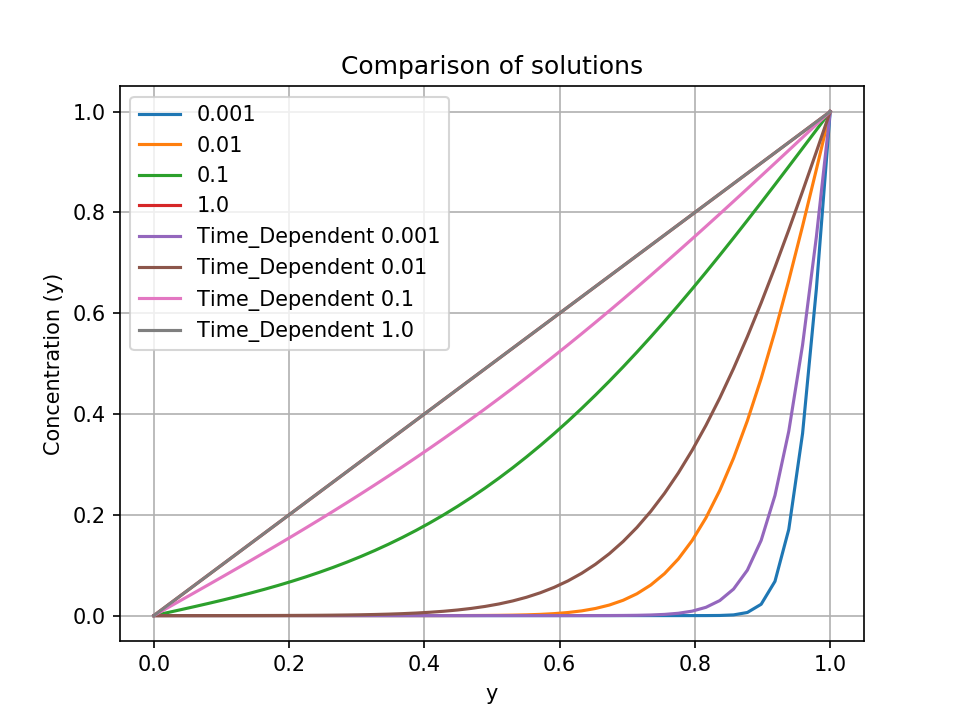
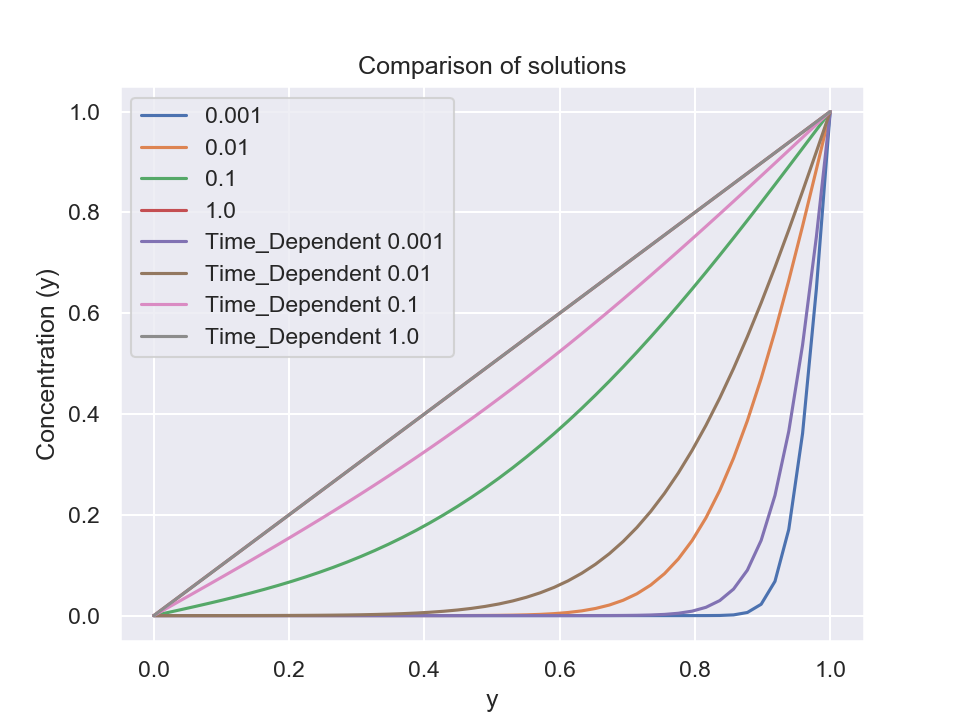
plotjes enzo

diff --git a/set1/DiffusionGrid.py b/set1/DiffusionGrid.py
@@ -15,23 +15,20 @@ class DiffusionGrid():
     """ This is a class that contains the diffusion coefficient and dimensions for
         the diffusion grid. It also contains the diffusion grid itself."""
 
-    def __init__(self, height, width, D, dt, timesteps, method):
+    def __init__(self, height, width, D, method):
         self.height = height
         self.width = width
         self.D = D
-        self.dt = dt
+
         self.dx = 1/self.width
-
-        # save grid at right times for plots later
-        self.timesteps = timesteps
         self.time = 0
-
-        # the other methods are time independent so we don't want to save these timesteps
-        if method is "Time_Dependent":
-            self.save_times = [0, 10, 100, 1000, 10000]
 
         self.saved_states = {}
         self.method = method
+
+        # this is needed for the time independent methods
+        self.converged = False
+        self.convergence = []
 
         self.initialize()
 
@@ -45,15 +42,23 @@ class DiffusionGrid():
 
         self.object_grid = [[0 for col in range(self.width)] for row in range(self.height)]
 
-    def set_omega(w):
+    def set_omega(self, w):
         """ Set the weight of omega for the SOR diffusion method. """
         self.w = w
+
+    def set_time(self, dt, timesteps):
+        """ Set the time settings for Time Dependent Diffusion. """
+
+        self.dt = dt
+        self.timesteps = timesteps
+
+        # save grid at right times for plots later
+        # the other methods are time independent so we don't want to save these timesteps
+        self.save_times = [0, 10, 100, 1000, 10000]
 
     def next_step(self):
         """ Compute concentration in each grid point according to the right
             method. """
-
-        converged = False
 
         # call next step for right method
         if self.method is "Time_Dependent":
@@ -64,16 +69,16 @@ class DiffusionGrid():
 
             self.next_step_time_dependent()
         elif self.method is "Jacobi":
-            converged = self.next_step_jacobi()
+            self.next_step_jacobi()
         elif self.method is "Gauss_Seidel":
-            converged = self.next_step_gauss_seidel()
+            self.next_step_gauss_seidel()
         else:
-            converged = self.next_step_sor()
+            self.next_step_sor()
 
         self.time += 1
 
         if not self.method == "Time_Dependent":
-            if converged:
+            if self.converged:
                 # use time as amount of steps
                 self.saved_states[self.time/10000] = copy.deepcopy(self)
 
@@ -83,12 +88,7 @@ class DiffusionGrid():
 
                 # reverse list for proper plotting
                 y.reverse()
-
-                return y
-
-            # self.time is amount of steps that have been made until converged
-            return converged
-
+                self.dependence_on_y = y
 
 
     def next_step_time_dependent(self):
@@ -162,11 +162,10 @@ class DiffusionGrid():
 
         self.grid = copy.deepcopy(next_state)
 
-        print(max_delta)
+        self.convergence.append(max_delta)
+        # if biggest difference is smaller then epsiolon (given in assignment, it's converged)
         if max_delta < 10**-5:
-            return True
-        else:
-            return False
+            self.converged = True
 
 
 
@@ -207,11 +206,9 @@ class DiffusionGrid():
 
                 if delta > max_delta:
                     max_delta = delta
-
+        self.convergence.append(max_delta)
         if max_delta < 10**-5:
-            return True
-        else:
-            return False
+            self.converged = True
 
     def next_step_sor(self):
         """ Compute concentration in each grid point with the succesive over
@@ -257,26 +254,27 @@ class DiffusionGrid():
                     max_delta = delta
 
         self.grid = copy.deepcopy(next_state)
+        self.convergence.append(max_delta)
 
-        print(max_delta)
         if max_delta < 10**-5:
-            return True
-        else:
-            return False
+            self.converged = True
 
     def plot_time_frames(self):
         """ Plot the state of the diffusion at different time steps. """
 
         fig = plt.figure()
-        fig.suptitle("Diffusion for:" + self.method + "method")
+        fig.suptitle("Diffusion for: " + self.method + " method")
 
         for i,key in enumerate(self.saved_states.keys()):
-            plt.subplot(2,3,i + 1)
+            plt.subplot(1,6,i + 1)
             plt.title("t = " + str(key))
-            plt.imshow(self.saved_states[key].grid, norm=colors.Normalize(vmin=0,vmax=1))
+            im = plt.imshow(self.saved_states[key].grid, norm=colors.Normalize(vmin=0,vmax=1), interpolation='bicubic')
             plt.xticks([])
             plt.yticks([])
-        plt.colorbar()
+
+        # TODO fix colorbar
+        # plt.subplot(1,6, 6)
+        # plt.colorbar()
         plt.show()
         fig.savefig('results/timepoints'+ self.method + "_" + str(time.time()) + '.png', dpi=150)
 
@@ -323,6 +321,8 @@ class DiffusionGrid():
 
                 # reverse list for proper plotting
                 y.reverse()
+                self.dependence_on_y = y
+
                 plt.plot(x,y, label=self.method + " " + str(key))
 
         plt.legend()

diff --git a/set1/diffusion_show_convergence.py b/set1/diffusion_show_convergence.py
@@ -1,0 +1,120 @@
+import math
+from DiffusionGrid import DiffusionGrid
+import time
+import numpy as np
+import matplotlib.pyplot as plt
+import copy
+import seaborn as sns
+sns.set()
+
+def main():
+    ####### Variables
+    # diffusion coefficient
+    D = 1
+
+    # divide grid in 50 discrete steps
+    height = 50
+    width = 50
+
+    # actual lengths are 1
+    len_x = 1
+    len_y = 1
+
+    methods = ["Jacobi", "Gauss_Seidel", "SOR"]
+    omegas = [1.7, 1.8, 1.9, 1.914]
+
+    linear_dependence = {}
+    convergence_per_iteration = {}
+
+    for method in methods:
+
+        current_state = DiffusionGrid(height, width, D, method)
+
+        if method == "SOR":
+            for omega in omegas:
+                current_state = DiffusionGrid(height, width, D, method)
+                # for the values of omega
+                current_state.set_omega(omega)
+                # for the time independent solutions, calculate next states until converged
+                while not current_state.converged:
+                    current_state.next_step()
+
+                    print(method + str(omega) + str(current_state.time))
+
+                linear_dependence[method + str(omega)] = current_state.dependence_on_y
+                convergence_per_iteration[method + str(omega)] = current_state.convergence
+
+        else:
+            # for the time independent solutions, calculate next states until converged
+            while not current_state.converged:
+                current_state.next_step()
+
+                print(method + str(current_state.time))
+
+            linear_dependence[method] = current_state.dependence_on_y
+            convergence_per_iteration[method] = current_state.convergence
+
+    linear_dependence["Analytic"] = analytic_solution(D, width)
+    print(linear_dependence)
+
+    x = np.linspace(0.,1.,width)
+
+    ###### Plot linear dependence on y
+    fig = plt.figure()
+    plt.title("Linear dependence on y")
+    plt.ylabel("Concentration")
+    plt.xlabel("Y coordinate diffusion grid")
+    for key in linear_dependence.keys():
+        plt.plot(x, linear_dependence[key], label=key)
+
+    plt.legend()
+    plt.show()
+    fig.savefig('results/linear_dependence'+ str(time.time()) + '.png', dpi=150)
+
+
+    ######3 PLOT
+    fig = plt.figure()
+    plt.title("Linear dependence on y\n Diffence between Analytic and Time-Independent methods")
+    plt.ylabel("Difference in concentration")
+    plt.xlabel("Y coordinate diffusion grid")
+
+    for key in linear_dependence.keys():
+        list = [linear_dependence[key][i] - linear_dependence["Analytic"][i] for i in range(len(linear_dependence["Analytic"]))]
+        plt.plot(x, list, label=key)
+
+    plt.legend()
+    plt.show()
+    fig.savefig('results/difference_linear_dependence' + str(time.time()) + '.png', dpi=150)
+
+
+    ####### Plot convergence per iteration
+    fig = plt.figure()
+    plt.title("Convergence per iteration")
+    plt.ylabel("Convergence (max_delta)")
+    plt.xlabel("Iteration")
+
+    for key in convergence_per_iteration.keys():
+        plt.semilogy(range(len(convergence_per_iteration[key])), convergence_per_iteration[key], label=key)
+
+    plt.legend()
+    plt.show()
+    fig.savefig('results/convergence_per_iteration' + str(time.time()) + '.png', dpi=150)
+
+def analytic_solution(D, width):
+    M = 10
+    x = np.linspace(0.,1.,width)
+
+    # we're only interested in the end state right now
+    t = 1
+
+    # make a list with zeros
+    y = [0]*len(x)
+
+    for j,xj in enumerate(x):
+        for i in range(0,M):
+            # add each time
+            y[j] += math.erfc((1-xj+2*i)/(2*np.sqrt(D*t))) - math.erfc((1+xj+2*i)/(2*np.sqrt(D*t)))
+    return y
+
+if __name__ == '__main__':
+    main()

diff --git a/set1/diffusion_time_dependent.py b/set1/diffusion_time_dependent.py
@@ -1,0 +1,37 @@
+import math
+from DiffusionGrid import DiffusionGrid
+
+import seaborn as sns
+sns.set()
+
+def main():
+    ####### Variables
+    # diffusion coefficient
+    D = 1
+
+    # divide grid in 100 discrete steps
+    height = 50
+    width = 50
+
+    # actual lengths are 1
+    len_x = 1
+    len_y = 1
+
+    # time stuff
+    dt = 0.0001
+    tmax = 1
+    timesteps = math.ceil(tmax/dt) + 1
+
+    current_state = DiffusionGrid(height, width, D, "Time_Dependent")
+    current_state.set_time(dt, timesteps)
+
+    for t in range(timesteps):
+        print(t)
+        current_state.next_step()
+
+    current_state.compare_to_analytic_solution()
+    current_state.plot_time_frames()
+
+
+if __name__ == '__main__':
+    main()

diff --git a/set1/diffusion_optimum_omega_sor.py b/set1/diffusion_optimum_omega_sor.py
@@ -27,9 +27,8 @@ def main():
     current_state.set_omega(1.85)
 
     # calculate until converged
-    converged = False
-    while not converged:
-        print(str(current_state.time) + str(converged))
+    while not current_state.converged:
+        print(str(current_state.time) + str(current_state.converged))
 
 if __name__ == '__main__':
     main()
